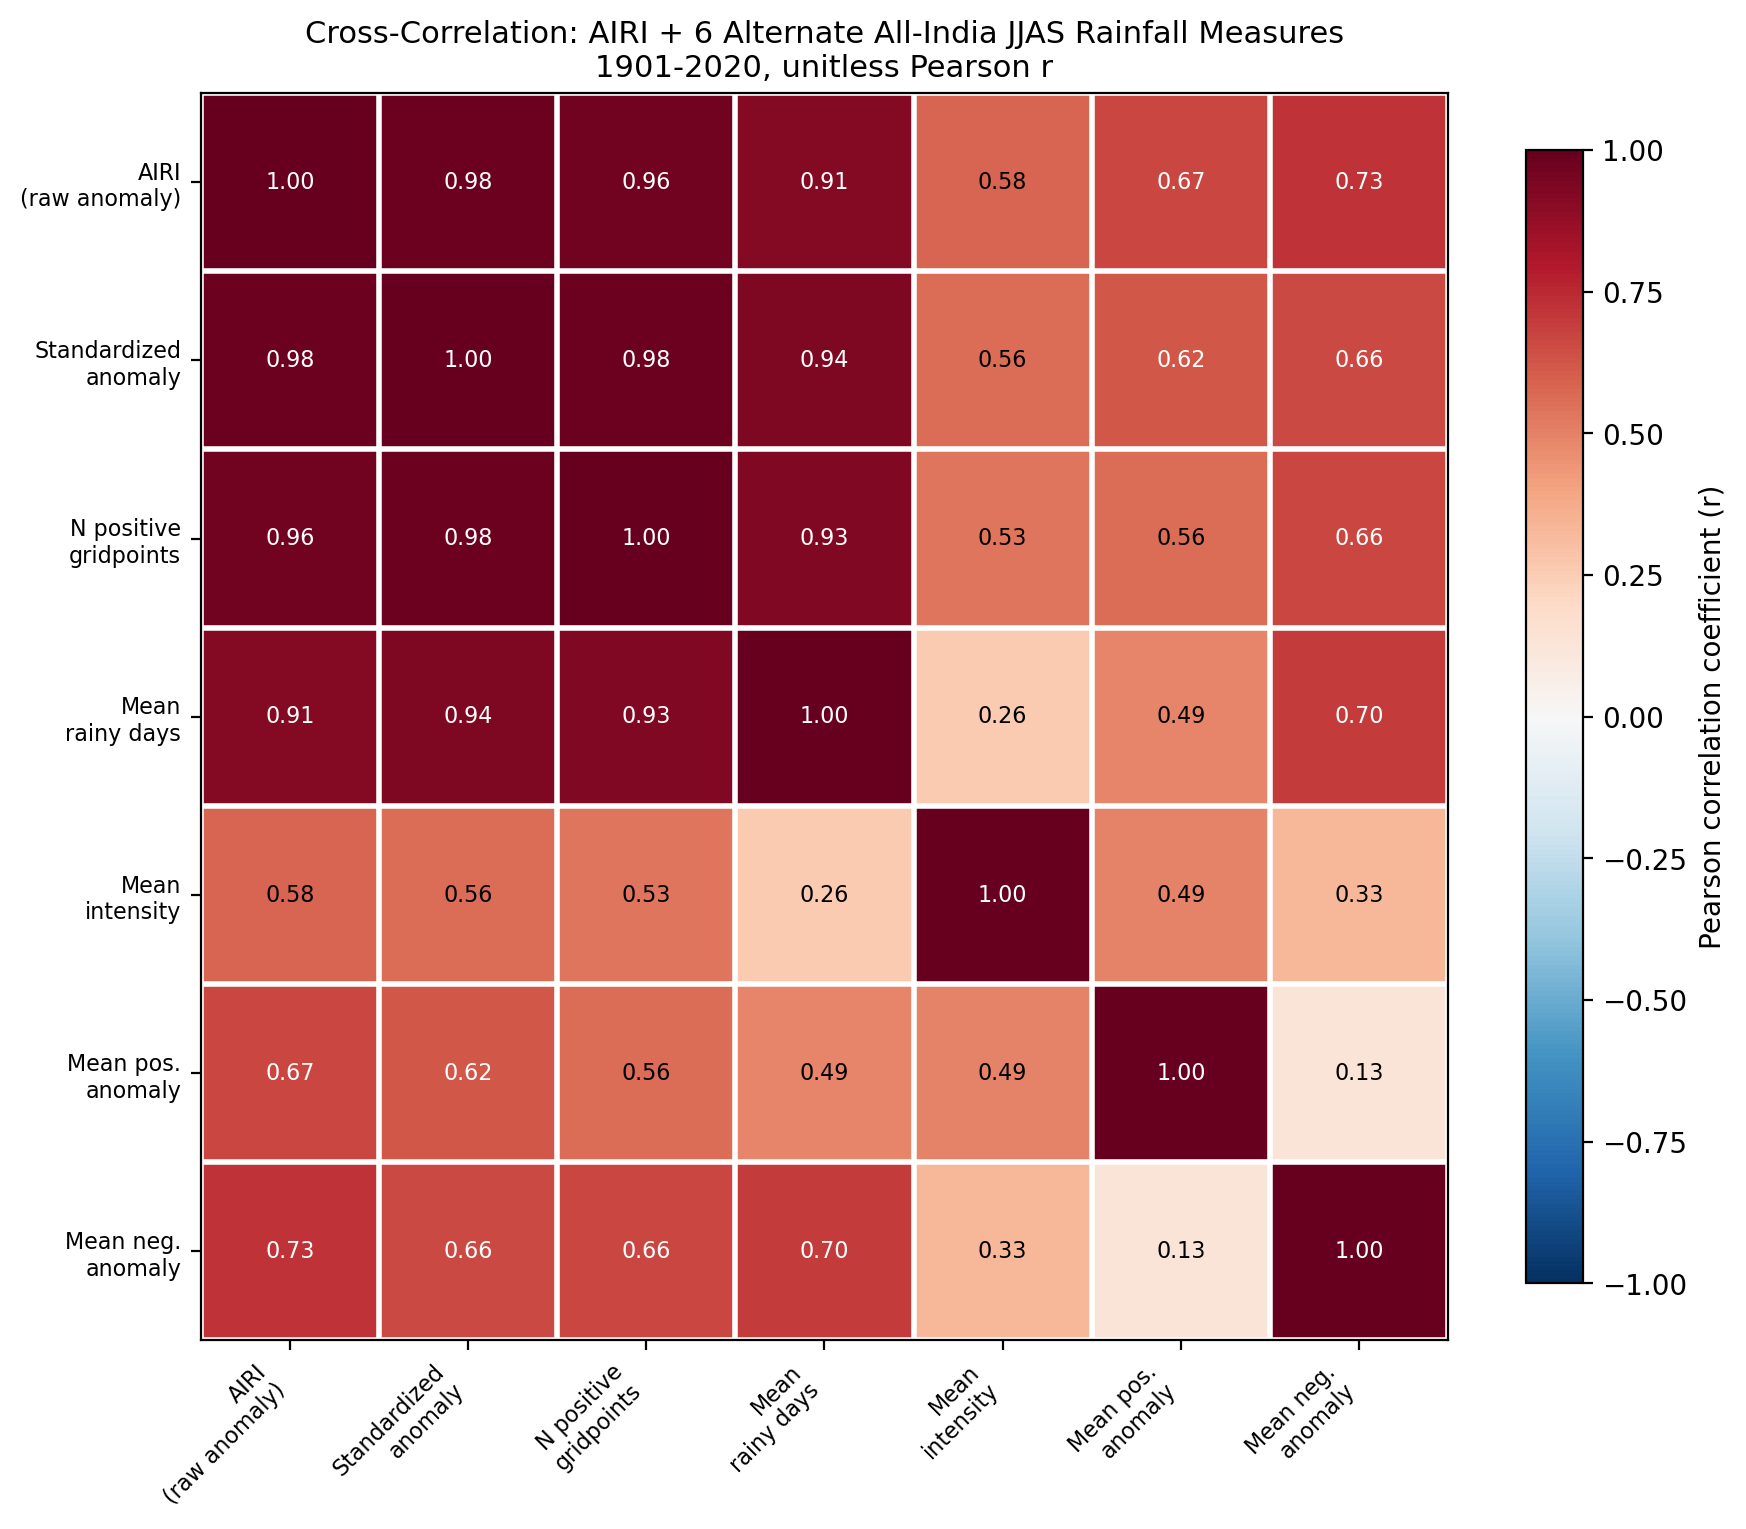
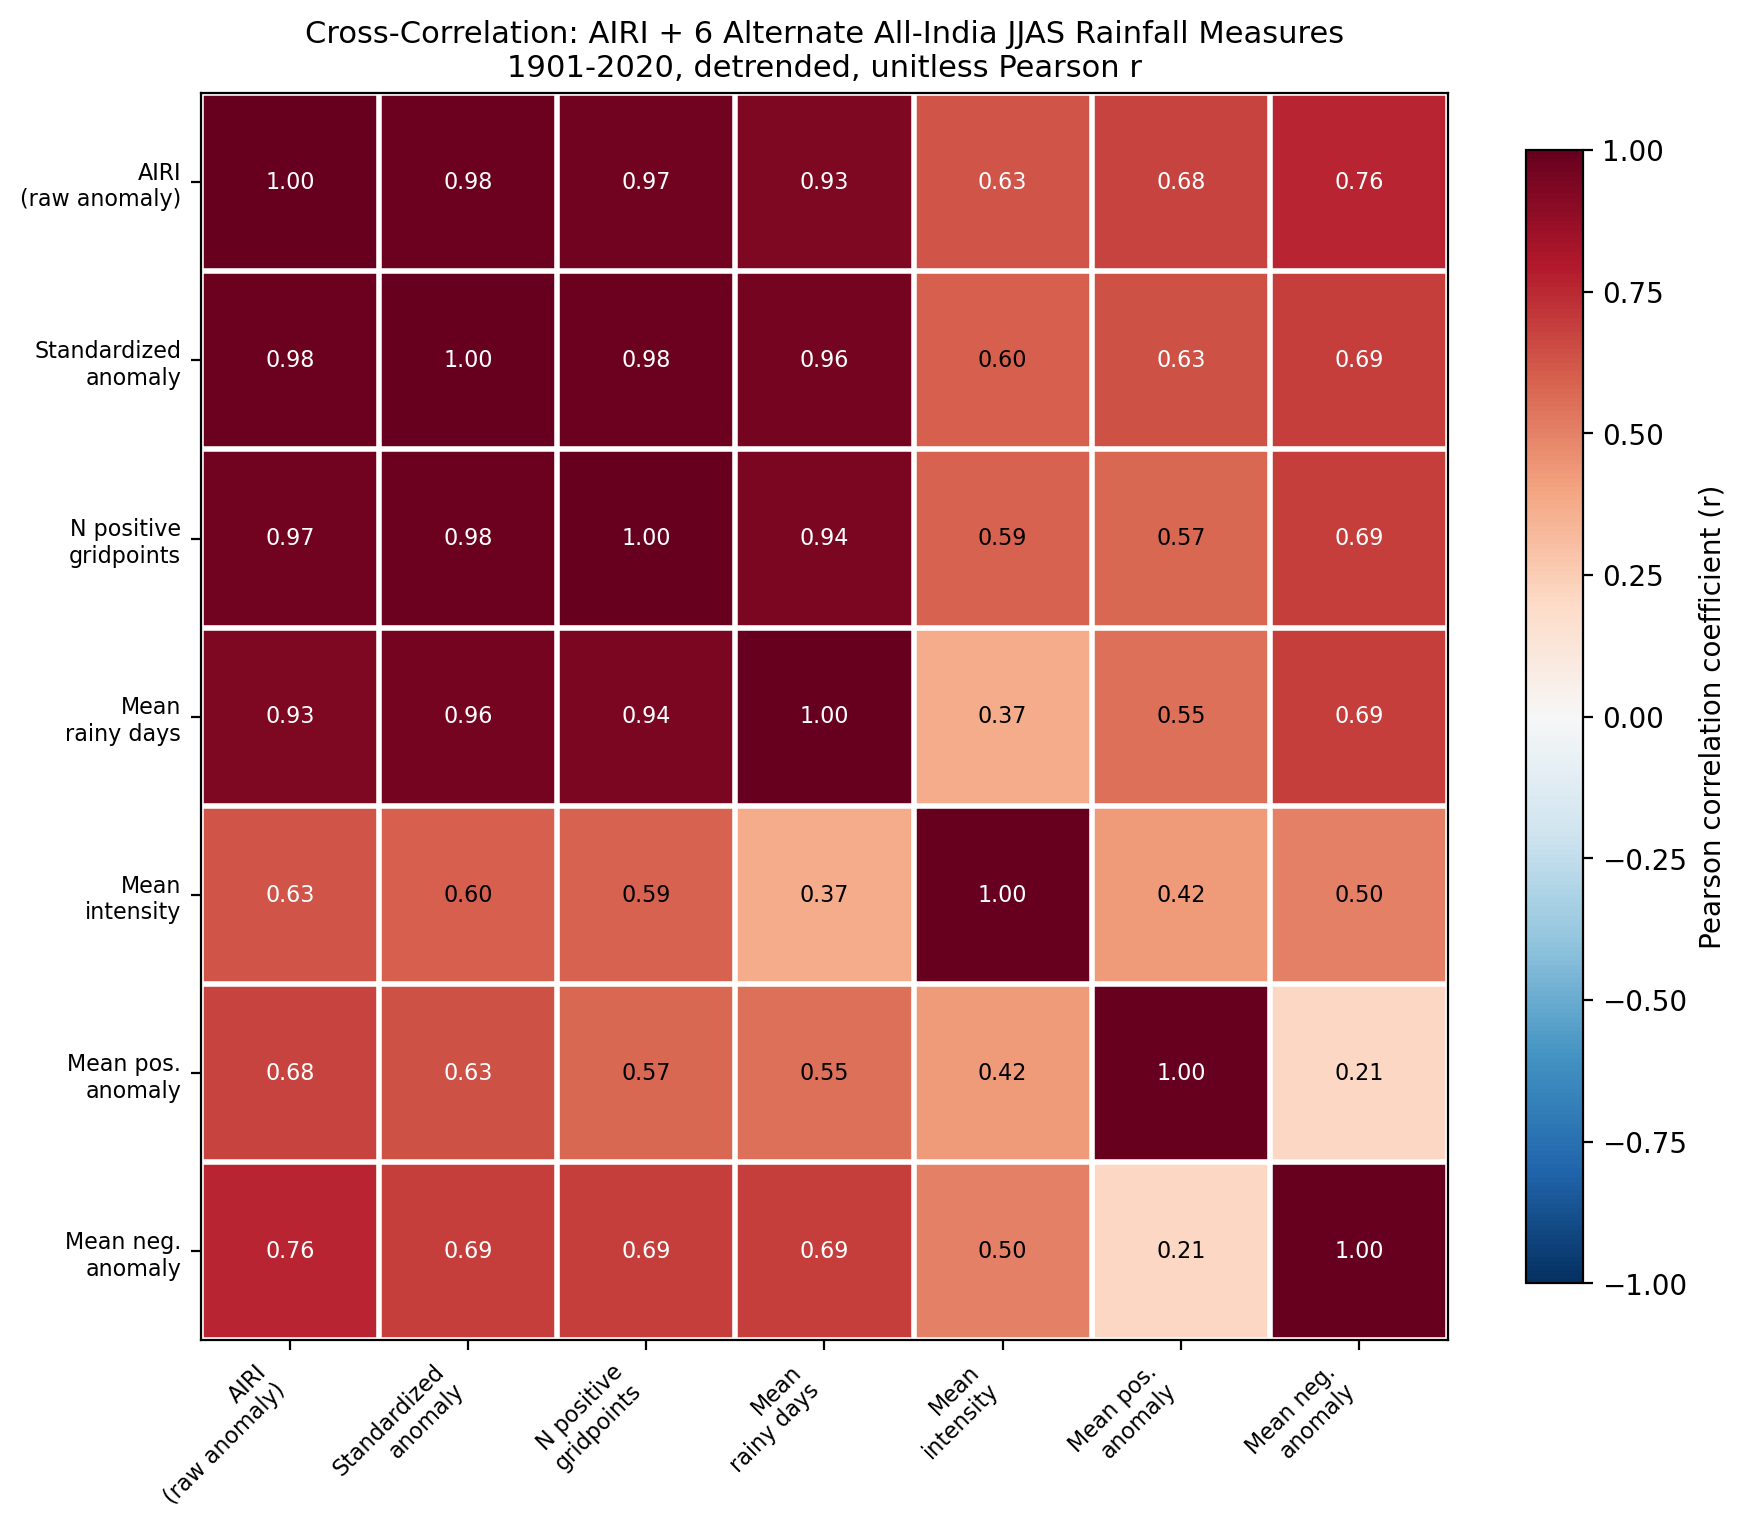
Detrend all series before cross-correlating (matches source paper methodology)
compute_airi_indices.py: adds a "_detrended" column for each of the 7 measures
(linear least-squares trend over 1901-2020 removed), alongside the existing
raw columns.

compute_airi_correlation_matrix.py: now always correlates the detrended
columns, matching the source paper's stated methodology of detrending each
series before cross-correlating.

Net effect on the previously-flagged AIRI-vs-mean-intensity discrepancy:
r moves from 0.58 (raw) to 0.63 (detrended) - real progress in the right
direction, matching the paper's actual method, but still short of their
reported 0.77. Documented as an open issue in CLAUDE.md with everything ruled
out so far (aggregation order, threshold, weighting, a data-artifact
hypothesis) for whoever picks this back up.

diff --git a/compute_airi_correlation_matrix.py b/compute_airi_correlation_matrix.py
@@ -7,6 +7,11 @@ Each measure is a different unit (mm/day anomaly, unitless standardized
 anomaly, a raw grid-point count, a day count), so comparing them directly only
 makes sense via a unitless statistic like r - hence this matrix, not e.g. a
 shared-axis overlay of the time series themselves.
+
+Uses the "_detrended" columns (each series' 1901-2020 linear trend removed
+before correlating), matching the source paper's stated methodology - not the
+raw columns. compute_airi_indices.py computes both; this script always uses
+detrended.
 """
 import numpy as np
 import pandas as pd
@@ -25,21 +30,24 @@ LABELS = {
     'mean_positive_anomaly_mm_day': 'Mean pos.\nanomaly',
     'mean_negative_anomaly_mm_day': 'Mean neg.\nanomaly',
 }
-cols = list(LABELS.keys())
+base_cols = list(LABELS.keys())
+detrended_cols = [f'{c}_detrended' for c in base_cols]
 
-corr = df[cols].corr(method='pearson')
+corr = df[detrended_cols].corr(method='pearson')
+corr.index = base_cols
+corr.columns = base_cols
 corr.to_csv('data/indices/airi_correlation_matrix.csv')
-print('Pearson correlation matrix:')
+print('Pearson correlation matrix (detrended series):')
 print(corr.round(2).to_string())
 
-n = len(cols)
+n = len(base_cols)
 fig, ax = plt.subplots(figsize=(9, 8))
 im = ax.imshow(corr.values, cmap='RdBu_r', vmin=-1, vmax=1)
 
 ax.set_xticks(range(n))
 ax.set_yticks(range(n))
-ax.set_xticklabels([LABELS[c] for c in cols], rotation=45, ha='right', fontsize=8)
-ax.set_yticklabels([LABELS[c] for c in cols], fontsize=8)
+ax.set_xticklabels([LABELS[c] for c in base_cols], rotation=45, ha='right', fontsize=8)
+ax.set_yticklabels([LABELS[c] for c in base_cols], fontsize=8)
 
 # Recessive white gridlines between cells (imshow has no native cell grid)
 ax.set_xticks(np.arange(-0.5, n, 1), minor=True)
@@ -58,7 +66,7 @@ cbar.set_label('Pearson correlation coefficient (r)')
 
 ax.set_title(
     'Cross-Correlation: AIRI + 6 Alternate All-India JJAS Rainfall Measures\n'
-    '1901-2020, unitless Pearson r',
+    '1901-2020, detrended, unitless Pearson r',
     fontsize=11,
 )
 

diff --git a/compute_airi_indices.py b/compute_airi_indices.py
@@ -25,6 +25,12 @@ plot_jjas_climatology.py). Rainy-day threshold for measures 3-4: >1 mm/day.
 All "average across grid points" is a SIMPLE (unweighted) mean over valid
 India grid points, matching the literal definitions above - not area/cos(lat)
 weighted like the EOF analysis in the companion enso-sst-analysis project.
+
+Each measure also gets a "_detrended" column: the same 120-year series with
+its 1901-2020 linear least-squares trend subtracted off, matching the source
+paper's stated methodology of detrending each series before cross-correlating
+them (see compute_airi_correlation_matrix.py, which correlates these columns,
+not the raw ones).
 """
 import os
 import xarray as xr
@@ -33,6 +39,7 @@ import pandas as pd
 import matplotlib
 matplotlib.use('Agg')
 import matplotlib.pyplot as plt
+from scipy.signal import detrend
 
 RAINY_DAY_THRESHOLD = 1  # mm/day, for measures 3 and 4
 
@@ -79,10 +86,14 @@ df = pd.DataFrame({
     'mean_negative_anomaly_mm_day': mean_neg_anomaly.values,
 })
 
+index_cols = [c for c in df.columns if c != 'year']
+for col in index_cols:
+    df[f'{col}_detrended'] = detrend(df[col].values, type='linear')
+
 os.makedirs('data/indices', exist_ok=True)
 df.to_csv('data/indices/airi_indices.csv', index=False)
-print(f"Saved data/indices/airi_indices.csv ({len(df)} years)")
-print(df.describe().loc[['mean', 'std', 'min', 'max']].round(2))
+print(f"Saved data/indices/airi_indices.csv ({len(df)} years, {len(index_cols)} measures + detrended versions)")
+print(df[index_cols].describe().loc[['mean', 'std', 'min', 'max']].round(2))
 
 # --- Plot ----------------------------------------------------------------
 fig, axes = plt.subplots(4, 2, figsize=(13, 14), sharex=True)

diff --git a/CLAUDE.md b/CLAUDE.md
@@ -34,7 +34,9 @@ Two datasets on hand:
 - `data/indices/airi_indices.csv` — AIRI + 6 alternate all-India JJAS rainfall variability measures
   (one row per year, 1901-2020), built by `compute_airi_indices.py`. See that script's docstring for the
   exact definition of each column - they're not all the same kind of quantity (some are anomalies in
-  mm/day, one is a unitless standardized anomaly, one is a raw grid-point count).
+  mm/day, one is a unitless standardized anomaly, one is a raw grid-point count). Each measure also has
+  a `_detrended` counterpart column (linear 1901-2020 trend removed); `compute_airi_correlation_matrix.py`
+  always correlates the detrended versions, matching the source paper's methodology.
 
 Still needed: a 120-year SST dataset (for ENSO/IOD index computation), and the ENSO/IOD index time
 series themselves (not yet derived).
@@ -82,6 +84,41 @@ $env:Path = "C:\Users\shrey\.conda\envs\podaac_env;C:\Users\shrey\.conda\envs\po
 ```
 If a plotting script mysteriously produces no output and no error, check `$LASTEXITCODE` for
 `-1066598273` before chasing anything else — it means this, not a bug in the script.
+
+## Open issue: AIRI-vs-mean-intensity correlation doesn't match the source paper
+
+The project is reproducing a specific paper's ("Spencer & Hill") 6-alternate-measures methodology and
+its Figure 2 cross-correlation matrix. Reproduction is good but not exact for one cell:
+
+- Paper's Figure 2: AIRI vs. mean intensity on rainy days = **0.77** (raw AIRI, not standardized).
+- Our result: **0.58** raw, **0.63** after detrending both series (paper detrends before correlating -
+  see below). Still a real gap.
+- Everything else matches the paper closely: the "extent" group (standardized anomaly, N-positive,
+  mean rainy days vs AIRI) all reproduce the paper's ">0.9" claim almost to 2 decimal places (0.97-0.98
+  vs paper's .98/.96/.91). Mean-negative-anomaly vs AIRI, detrended, comes out to 0.76 - right at the
+  paper's stated "no coefficient in this group exceeds 0.77" ceiling.
+
+What's been ruled out (don't re-try these without new evidence):
+- **Aggregation order**: per-gridpoint-then-spatial average (current) vs. pooling all rainy (day,
+  gridpoint) values directly (flat/rain-weighted) - mathematically these can differ, but here give 0.58
+  vs 0.57, i.e. the same thing within noise. Confirmed the paper's own wording ("average across all grid
+  points OF [rainfall rate on rainy days]") literally specifies the per-gridpoint-first reading anyway.
+- **Rainy-day threshold**: paper confirms 1mm/day, matches what we use. A threshold sweep (0/0.1/0.5/1/
+  2.5mm) moves r within 0.55-0.71, never reaches 0.77 at any threshold, so this isn't a simple threshold
+  mismatch either.
+- **Area/cos(lat) weighting**: negligible effect (0.58 -> 0.59).
+- **NE India / Bangladesh border data artifact**: the paper's Methods section names a specific corrupted
+  grid-cell cluster (Gadgil et al. 2019 mask, JJAS mean/variance jumping in 1971). Checked this dataset's
+  actual NE region (our `monsoon_mask` domain caps at lon 89E, lat 8.25-31.75N) for a pre/post-1971 level
+  shift: none found (means differ by ~0.2mm/day, no gridpoint jumps >2mm/day). Either this file's mask
+  already differs from the raw Gadgil mask, or the bad cluster is outside our domain entirely.
+- **Detrending**: real effect in the right direction (implemented, now default for the correlation
+  matrix) but only closes part of the gap (0.58 -> 0.63, not -> 0.77).
+
+Not yet tried: getting the paper's actual replication code/supplementary methods (best next step if
+available), or re-examining whether the paper's own AIRI is built differently than the JJAS-seasonal-
+mean-anomaly definition used here. If you pick this back up, read the full conversation history for the
+detailed back-and-forth rather than re-deriving from scratch.
 
 ## Conventions
 

diff --git a/README.md b/README.md
@@ -50,14 +50,19 @@ large for GitHub. Only code, figures, and documentation are tracked.
   measures of JJAS rainfall variability (standardized anomaly; count of positive-anomaly grid points;
   avg rainy days/season; avg intensity on rainy days; mean anomaly restricted to positive-only /
   negative-only grid points) — see the script docstring for exact definitions. Outputs a 120-year time
-  series CSV (`data/indices/airi_indices.csv`) and a 7-panel figure
-  (`figures/airi_indices_timeseries.png`). Unlike the other scripts here, these are *unweighted* spatial
-  averages (matching the literal definitions), not area/cos(lat)-weighted.
+  series CSV (`data/indices/airi_indices.csv`, each measure plus a `_detrended` version with its
+  1901-2020 linear trend removed) and a 7-panel figure (`figures/airi_indices_timeseries.png`, raw
+  values). Unlike the other scripts here, these are *unweighted* spatial averages (matching the literal
+  definitions), not area/cos(lat)-weighted.
 - `compute_airi_correlation_matrix.py` — cross-correlation (Pearson r) among all 7 AIRI measures above,
-  as a heatmap (`figures/airi_indices_correlation_matrix.png`) and CSV
-  (`data/indices/airi_correlation_matrix.csv`). AIRI/standardized-anomaly/N-positive-gridpoints/mean-
-  rainy-days are all tightly correlated (r≥0.91, largely the same signal); mean intensity is the most
-  independent measure.
+  computed on the **detrended** series (matching the source paper's stated methodology), as a heatmap
+  (`figures/airi_indices_correlation_matrix.png`) and CSV (`data/indices/airi_correlation_matrix.csv`).
+  AIRI/standardized-anomaly/N-positive-gridpoints/mean-rainy-days are all tightly correlated (r≥0.93,
+  largely the same signal); mean intensity and mean positive/negative anomaly are more independent.
+  We're still chasing a specific discrepancy against the source paper's published matrix for the
+  AIRI-vs-mean-intensity cell (paper reports r=0.77; ours currently gives 0.63 detrended, 0.58 raw) —
+  see git history / conversation log for what's been ruled out (aggregation order, rain-weighting,
+  threshold choice, spatial mask artifacts) before picking this back up.
 
 ## Setup
 
